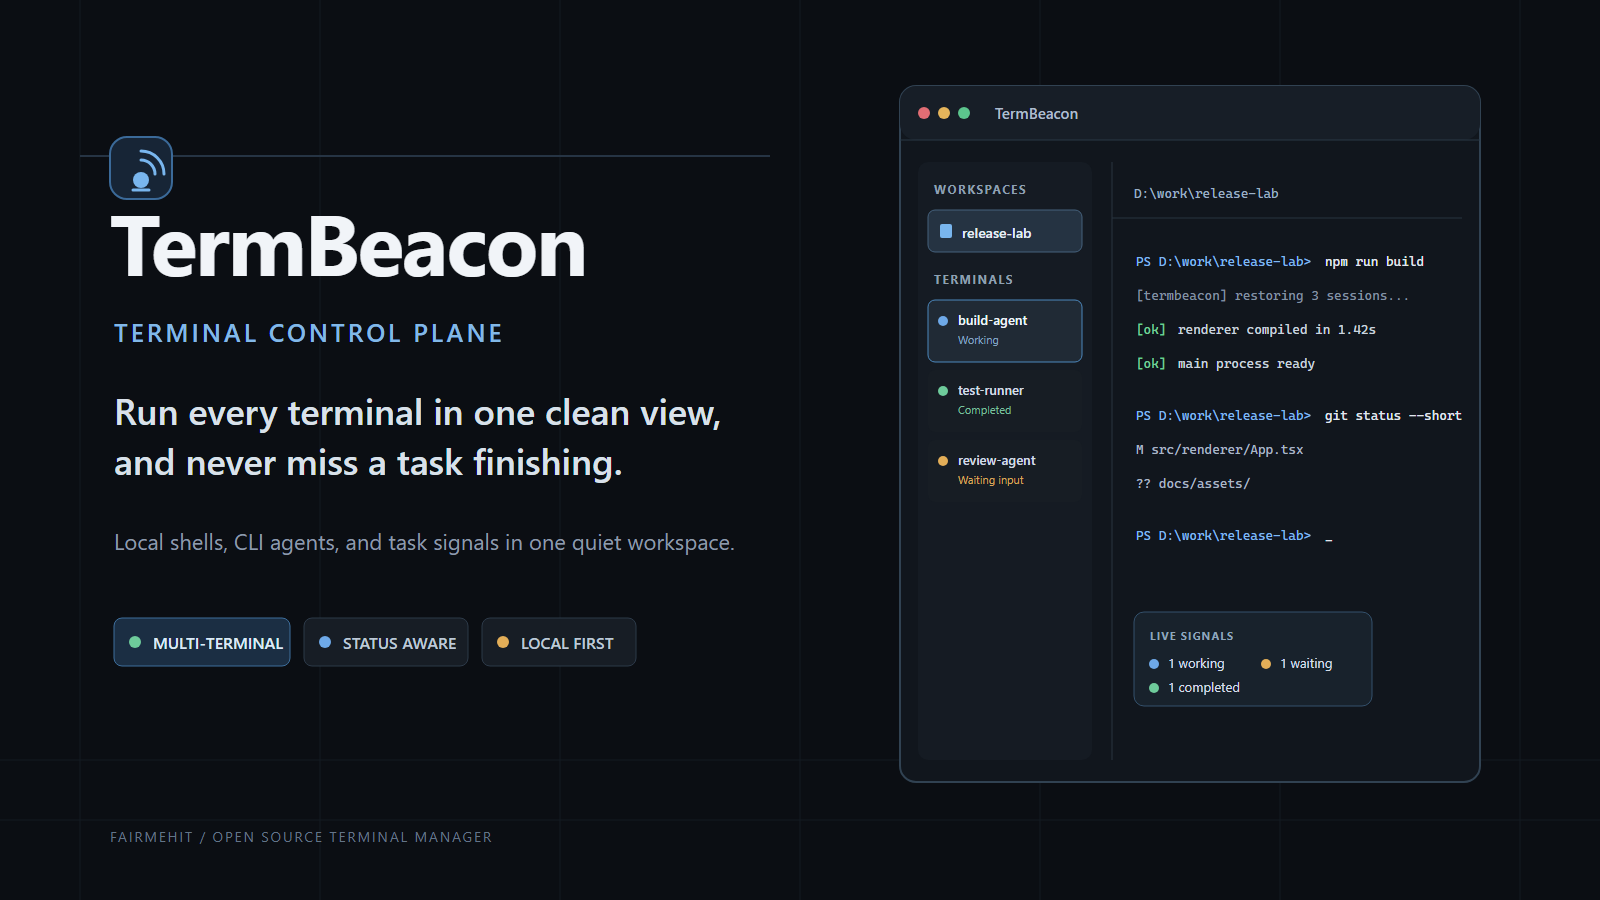
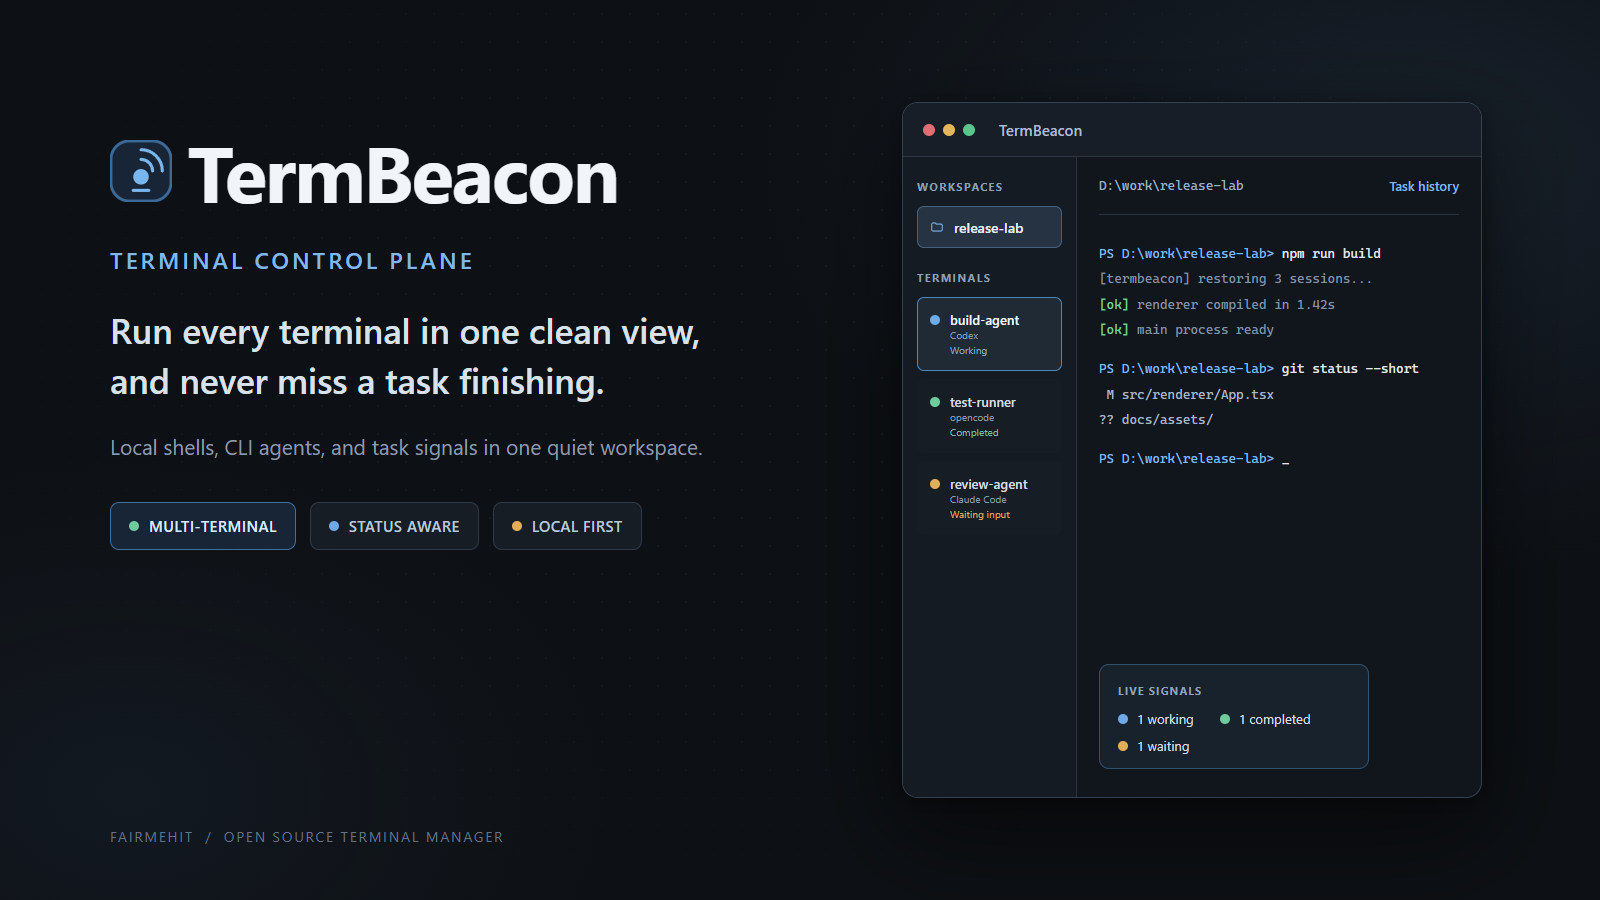
docs: refresh README CLI integration note and cover/preview screenshots

diff --git a/README.md b/README.md
@@ -2,10 +2,6 @@
   <img src="docs/assets/termbeacon-cover.png" alt="TermBeacon - a clean control plane for every terminal" width="100%" />
 
   <p>
-    <a href="#termbeacon">English</a> · <a href="#简体中文">简体中文</a>
-  </p>
-
-  <p>
     <a href="https://github.com/FairmeHIT/TermBeacon/releases"><img src="https://img.shields.io/badge/version-0.1.13-2f80ed?style=flat-square" alt="Version 0.1.13" /></a>
     <a href="https://www.electronjs.org/"><img src="https://img.shields.io/badge/Electron-36-3b4856?style=flat-square" alt="Electron 36" /></a>
     <a href="https://react.dev/"><img src="https://img.shields.io/badge/React-19-3b4856?style=flat-square" alt="React 19" /></a>
@@ -14,6 +10,7 @@
   </p>
 
   <p><strong>Run every terminal in one clean view, and never miss a task finishing.</strong></p>
+  <p>Works with <strong>Codex</strong>, <strong>Claude Code</strong>, and <strong>opencode</strong> — plus generic shells.</p>
 </div>
 
 <a id="termbeacon"></a>
@@ -130,45 +127,3 @@ The host process owns PTYs independently from the window, so closing and reopeni
 ## Project status
 
 TermBeacon is an active MVP. The core desktop workflow is implemented; integrations and status detection continue to improve as more CLI event formats are covered. Contributions, reproducible bug reports, and sanitized CLI fixtures are welcome.
-
-## 简体中文
-
-TermBeacon 是一个本地优先的终端管理器，适合同时运行多个 Shell 和 CLI Agent。它把终端放进工作区，用简洁侧栏展示多个会话，并用状态提醒告诉你任务正在执行、已完成、等待输入或发生异常。
-
-**一句话推广语：在一个简洁界面管理所有终端，任务完成时及时提醒你。**
-
-### 主要能力
-
-- 多工作区、多终端创建、切换、重命名、停止、重启和删除。
-- `工作中`、`已完成`、`就绪`、`等待输入`、`异常`、`已停止` 六类状态灯。
-- 后台任务进入“已完成但未查看”后会持续提醒，打开对应终端后才回到“就绪”。
-- 支持 opencode 插件、Claude Code Hook、Codex 标题信号和通用 Shell 启发式检测。
-- 保存窗口布局、工作区、任务历史和终端滚动内容，重启后恢复。
-- Electron + React + TypeScript + Vite + xterm.js + node-pty，Windows 使用 ConPTY。
-- 深色 / 浅色主题和打包版本自动更新。
-
-### 快速开始
-
-直接使用时，从 [GitHub Releases](https://github.com/FairmeHIT/TermBeacon/releases) 下载安装包。源码开发需要 Node.js 20+、npm 10+ 和 Git：
-
-```powershell
-npm ci
-npm run doctor
-npm test
-npm run build
-npm run dev
-```
-
-配置 CLI 状态桥接：
-
-```powershell
-npm run hooks:install
-npm run hooks:configure:claude
-npm run preflight:cli
-```
-
-详细配置、事件映射、排查方法和协议说明见 [`hooks/README.md`](hooks/README.md)。
-
-### 项目状态
-
-TermBeacon 当前处于持续开发的 MVP 阶段。桌面端核心流程已经可用，后续会继续扩展 CLI 事件适配和状态检测覆盖范围。欢迎提交可复现的问题、脱敏后的 CLI fixture 和改进建议。
